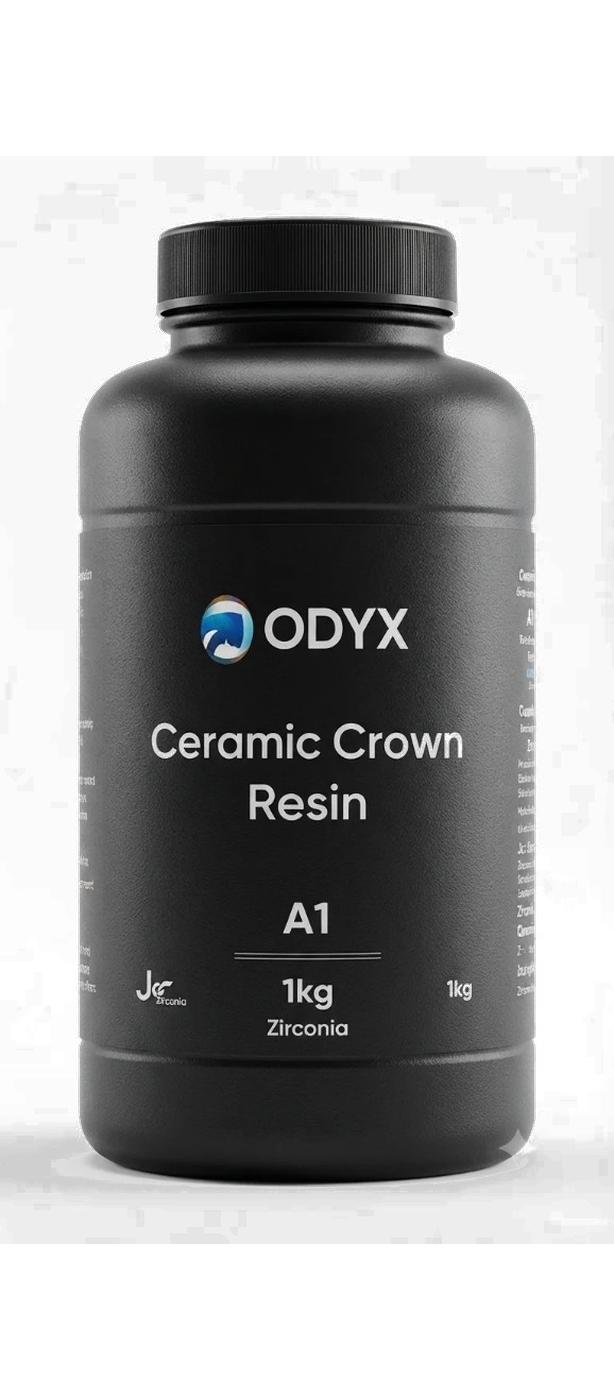
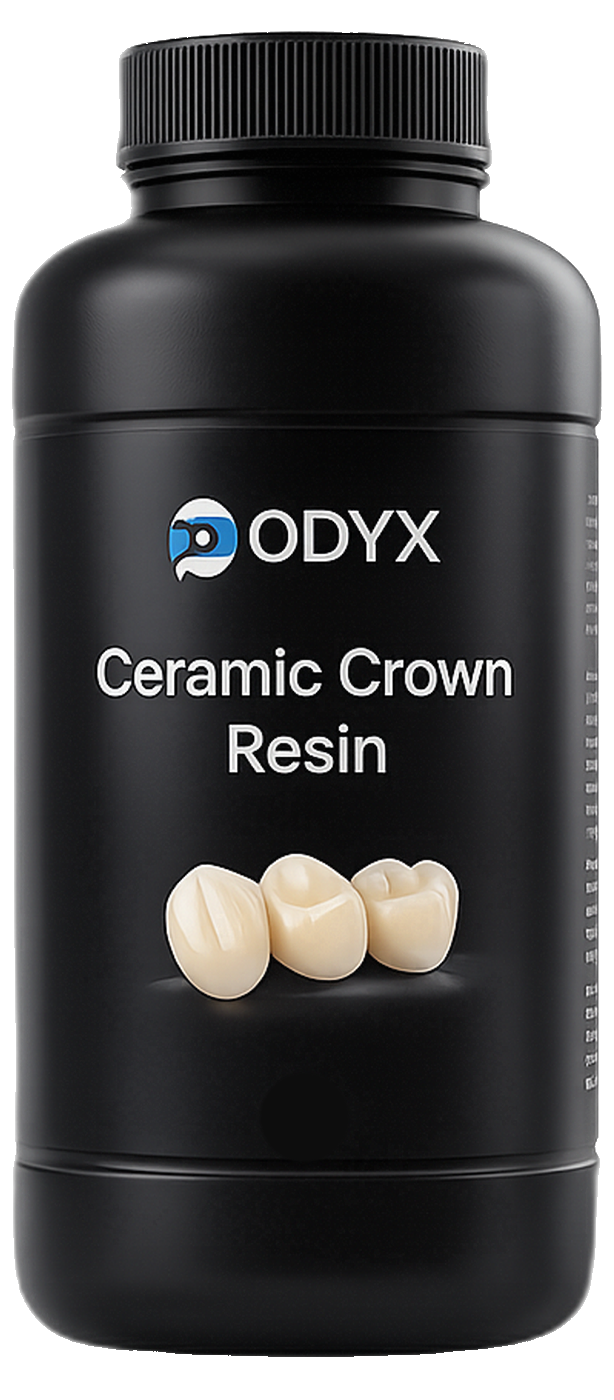
Update image assets and adjust component styles
- Replaced multiple outdated image files with new versions for dental models, eco printer, store shelf, and various resin products to ensure consistency and quality.
- Adjusted styles in EcoPrinterVideo and EcosystemSection components for improved layout and responsiveness.
- Updated image versioning in ResinsRangePage to reflect the latest assets.

diff --git a/src/components/home2/ProductsRail.tsx b/src/components/home2/ProductsRail.tsx
@@ -27,9 +27,10 @@ const CARDS = [
     alt: "The ODYX S1 intraoral scanner wand",
     width: "w-[17.771%] me-[2.024%]",
     // The scanner wand is much wider than tall and a white packshot —
-    // centre it (instead of bottom-pinning) and drop the multiply blend
-    // that would otherwise wash it into the card tint.
-    media: "items-center [--art-bottom:26px]",
+    // force vertical centering (items-end from PR_MEDIA_BASE must lose —
+    // Tailwind source order, not class-list order, decides the winner) and
+    // drop the multiply blend that would otherwise wash it into the card tint.
+    media: "items-center! [--art-bottom:26px]",
     mediaImg: "[mix-blend-mode:normal]! [filter:drop-shadow(0_8px_14px_rgba(10,40,90,.12))]",
   },
   {
@@ -60,8 +61,8 @@ const CARDS = [
     alt: "ODYX dental resin lines — Model, Ceramic Crown, Crown & Bridge, Surgical Guide, and Temporary",
     width: "w-[18.366%] me-[1.803%]",
     // Lift the bottles off the bottom edge so they sit mid-card; white
-    // packshot, so drop the multiply blend too.
-    media: "items-center [--art-bottom:18px]",
+    // packshot, so drop the multiply blend too. Important wins over items-end.
+    media: "items-center! [--art-bottom:18px]",
     mediaImg: "[mix-blend-mode:normal]! [filter:drop-shadow(0_8px_14px_rgba(10,40,90,.14))]",
   },
   {

diff --git a/src/components/home2/EcosystemSection.tsx b/src/components/home2/EcosystemSection.tsx
@@ -52,7 +52,9 @@ const IC = {
 const ECO_NODES = [
   { key: "scanner", label: "Scanner", icon: "scanOrbit", patch: "left-[28.27%] top-[-11.75%] w-[16.35%] z-[2]", node: "left-[36.44%] top-[15.26%]" },
   { key: "resin", label: "Resin", icon: "drop", patch: "left-[2.79%] top-[6.80%] w-[16.83%] z-[2]", node: "left-[11.15%] top-[43.09%]" },
-  { key: "printer", label: "Printer", icon: "cube", patch: "left-[59.23%] top-[7.22%] w-[17.88%] z-[2]", node: "left-[68.37%] top-[43.09%]" },
+  // P1-26 cutout is portrait (product-page packshot) — narrower than the
+  // old square wash/cure stand-in so height stays in the orbit band.
+  { key: "printer", label: "Printer", icon: "cube", patch: "left-[62.6%] top-[7.22%] w-[11.14%] z-[2]", node: "left-[68.37%] top-[43.09%]" },
   { key: "software", label: "Software", icon: "monitor", patch: "left-[7.31%] top-[52.16%] w-[19.42%] z-[2]", node: "left-[17.50%] top-[86.39%]" },
   { key: "cure", label: "Cure", icon: "sun", patch: "left-[47.69%] top-[51.75%] w-[19.23%] z-[2]", node: "left-[57.50%] top-[86.39%]" },
 ] as const;

diff --git a/src/components/pages/ResinsRangePage.tsx b/src/components/pages/ResinsRangePage.tsx
@@ -59,7 +59,7 @@ export default function ResinsRangePage() {
                 <img
                   key={line.id}
                   className="rs-hero-product"
-                  src={`${line.img}?v=12`}
+                  src={`${line.img}?v=14`}
                   alt={line.imgAlt}
                   width={800}
                   height={1400}
@@ -84,7 +84,7 @@ export default function ResinsRangePage() {
               <article key={line.id} className={`rs-line rs-line--${line.id}`}>
                 <div className="rs-line-media">
                   <img
-                    src={`${line.img}?v=12`}
+                    src={`${line.img}?v=14`}
                     alt={line.imgAlt}
                     loading="lazy"
                     width={800}

diff --git a/src/components/home2/EcoPrinterVideo.tsx b/src/components/home2/EcoPrinterVideo.tsx
@@ -52,7 +52,7 @@ export default function EcoPrinterVideo() {
       {/* Invisible hover surface over the printer patch + its icon/label
           node (the baked patches themselves are pointer-events-none). */}
       <div
-        className="absolute z-[5] left-[58.5%] top-[5%] w-[20.5%] h-[47%] cursor-pointer"
+        className="absolute z-[5] left-[60.5%] top-[5%] w-[15.5%] h-[48%] cursor-pointer"
         onPointerEnter={enter}
         onPointerLeave={leave}
         aria-hidden
